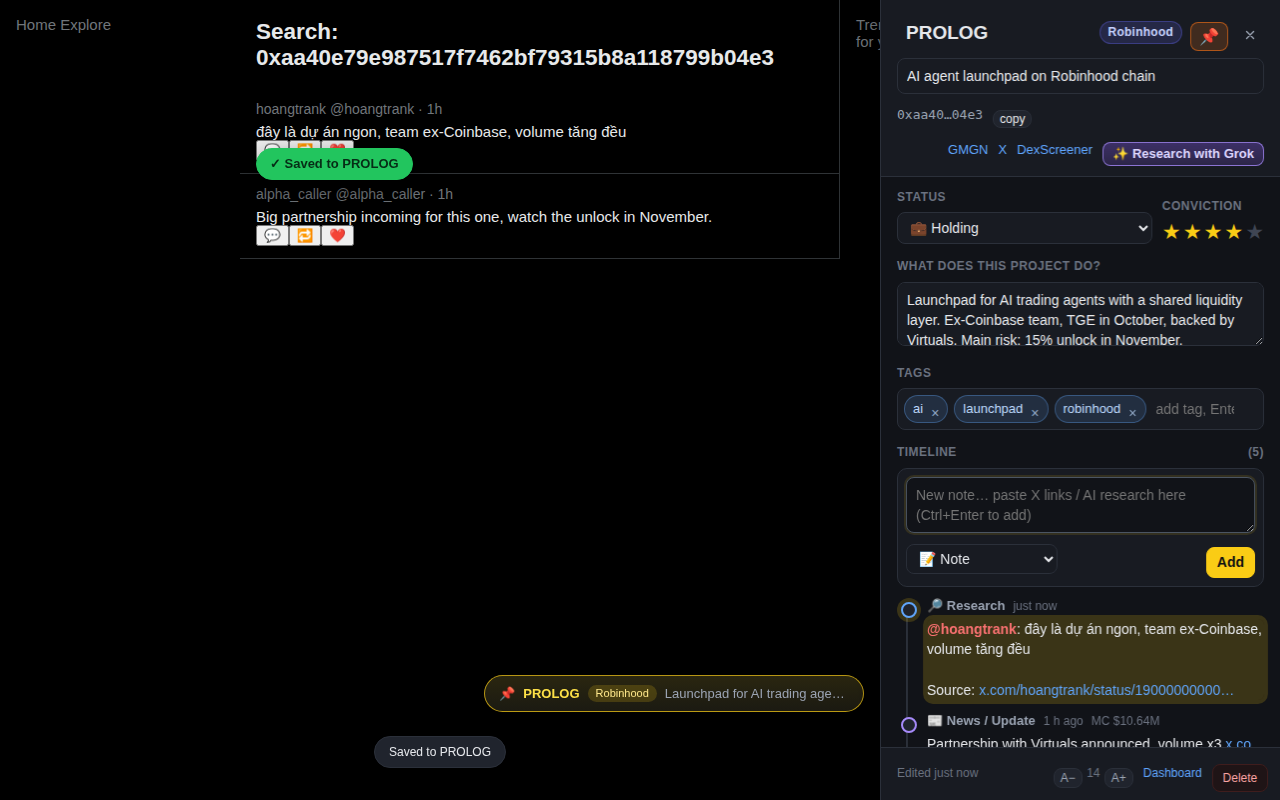
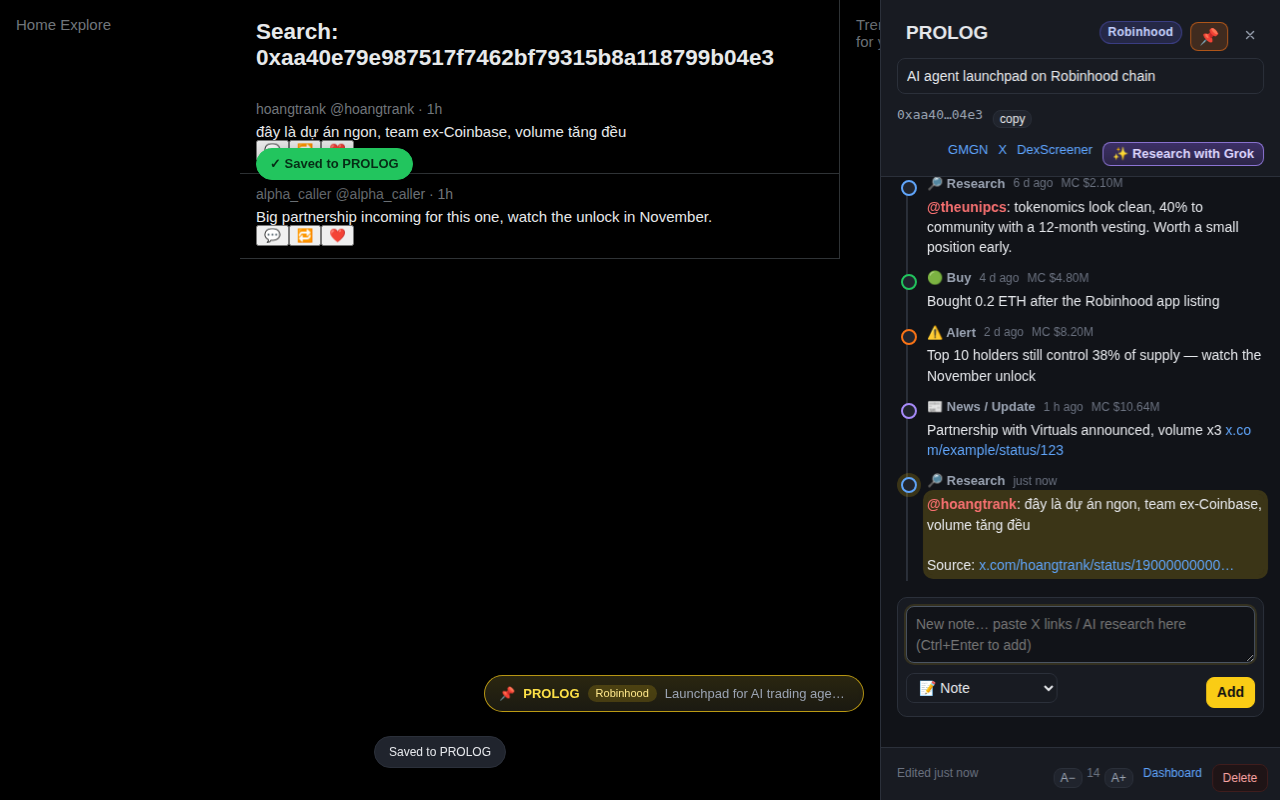
Timeline reads forward in time, and opens at the newest entry (0.10.1)
The timeline listed the newest entry first, so reading a project's story
meant reading bottom to top, and the further back you went the further
down you scrolled. It now runs oldest to newest, the way the events
actually happened, and opening a note scrolls straight to the bottom so
the latest thing is what you see first.

The compose box moves below the list to match. With the newest entry at
the bottom, an input above the list would have put what you type at the
far end of the page from where you typed it; now a new entry appears
directly above the box, and adding one scrolls it into view.

Tests: 202 assertions green, and three new ones — the order, the box
being below the list, and a freshly opened note already sitting at the
bottom. Screenshots regenerated.

Claude-Session: https://claude.ai/code/session_0174wcpqv3PPXBc7TtfHRh6s

Changed region(s): [[0.6875, 0.2188, 1.0, 0.9375]]

diff --git a/src/lib/editor.js b/src/lib/editor.js
@@ -63,7 +63,7 @@
 .ne-compose-row{display:flex;gap:6px;align-items:center}
 .ne-compose-row select{width:auto;flex:0 0 auto;padding:5px 8px}
 .ne-compose-row .ne-hint{flex:1;font-size:calc(var(--ne-fs,14px) - 2px);color:var(--ne-fg3)}
-.ne-entries{list-style:none;margin:10px 0 0;padding:0;position:relative}
+.ne-entries{list-style:none;margin:0 0 10px;padding:0;position:relative}
 .ne-entries::before{content:"";position:absolute;left:9px;top:6px;bottom:6px;width:2px;background:var(--ne-line)}
 .ne-entry{position:relative;padding:0 0 12px 30px}
 .ne-entry::before{content:"";position:absolute;left:4px;top:5px;width:12px;height:12px;border-radius:50%;background:var(--ne-bg3);border:2px solid #4b5563}
@@ -221,6 +221,7 @@
         </div>
         <div class="ne-sec">
           <div class="ne-label">${esc(t('timeline'))} <span class="ne-count"></span></div>
+          <ol class="ne-entries"></ol>
           <div class="ne-compose">
             <textarea class="ne-newtext" placeholder="${esc(t('new_entry_ph'))}"></textarea>
             <div class="ne-compose-row">
@@ -229,7 +230,6 @@
               <button class="primary ne-add" type="button">${esc(t('add'))}</button>
             </div>
           </div>
-          <ol class="ne-entries"></ol>
         </div>
       </div>
       <div class="ne-foot">
@@ -328,11 +328,23 @@
       renderTags();
       renderTimeline();
       renderTimes();
+      scrollToLatest();
       if (opts.allTags) {
         Promise.resolve(opts.allTags()).then(tags => {
           ui.tagList.innerHTML = (tags || []).map(t => `<option value="${esc(t)}">`).join('');
         });
       }
+    }
+
+    // Mở ghi chú là thấy ngay cái mới nhất: nhảy xuống đáy (hoặc tới đúng mốc vừa được thêm từ trang).
+    function scrollToLatest(smooth) {
+      const box = root.querySelector('.ne-body');
+      if (!box) return;
+      const target = highlightId && ui.entries.querySelector('.ne-entry--new');
+      requestAnimationFrame(() => {
+        if (target) target.scrollIntoView({ block: 'center', behavior: smooth ? 'smooth' : 'auto' });
+        else box.scrollTo({ top: box.scrollHeight, behavior: smooth ? 'smooth' : 'auto' });
+      });
     }
 
     function renderStars() {
@@ -353,7 +365,7 @@
     }
 
     function renderTimeline() {
-      const list = [...project.timeline].sort((a, b) => b.ts - a.ts);
+      const list = [...project.timeline].sort((a, b) => a.ts - b.ts); // cũ -> mới, mốc mới nhất ở đáy
       ui.count.textContent = list.length ? `(${list.length})` : '';
       ui.entries.innerHTML = '';
       if (!list.length) {
@@ -433,7 +445,7 @@
       const before = project.timeline.length;
       project = await S.save(project, { removedIds });
       removedIds = [];
-      if (project.timeline.length !== before) renderTimeline(); // có mốc từ nơi khác được gộp vào
+      if (project.timeline.length !== before) { renderTimeline(); scrollToLatest(true); } // có mốc từ nơi khác được gộp vào
       persisted = true;
       renderTimes();
       flashSaved();
@@ -466,7 +478,7 @@
       if (ctx.mc) extra.mc = ctx.mc;
       project.timeline.push(S.newEntry(ui.newType.value, text, extra));
       ui.newText.value = '';
-      renderTimeline(); commit();
+      renderTimeline(); scrollToLatest(true); commit();
     }
 
     // ---- events ----

diff --git a/test/e2e.js b/test/e2e.js
@@ -123,7 +123,18 @@ const drawerOpen = page => page.evaluate(() => !!document.getElementById('noted-
   await panel.selectOption('.ne-newtype', 'buy'); await panel.press('.ne-newtext', 'Control+Enter');
   await panel.waitForTimeout(700);
   const entries = await panel.$$eval('.ne-entry', els => els.map(e => e.dataset.type));
-  assert(entries.length === 2 && entries[0] === 'buy', 'timeline trong panel có 2 mốc, mới nhất ở trên: ' + entries.join(','));
+  assert(entries.length === 2 && entries[1] === 'buy', 'timeline đọc xuôi thời gian, mốc mới nhất ở đáy: ' + entries.join(','));
+  // Ô nhập nằm DƯỚI danh sách: gõ xong là mốc hiện ngay bên trên chỗ đang nhìn.
+  assert(await panel.evaluate(() => {
+    const list = document.querySelector('.ne-entries'), box = document.querySelector('.ne-compose');
+    return !!(list && box && (list.compareDocumentPosition(box) & Node.DOCUMENT_POSITION_FOLLOWING));
+  }), 'ô nhập mốc mới nằm dưới danh sách');
+  // Mở ghi chú là đã cuộn sẵn xuống chỗ mới nhất, không phải tự kéo.
+  const atBottom = await panel.evaluate(() => {
+    const b = document.querySelector('.ne-body');
+    return b.scrollHeight - b.clientHeight < 8 || b.scrollTop + b.clientHeight >= b.scrollHeight - 8;
+  });
+  assert(atBottom, 'mở ra đã ở sẵn đáy timeline');
   assert(await panel.$eval('.ne-entries', el => !!el.querySelector('a[href="https://x.com/example/status/123"]')), 'URL trong mốc được biến thành link');
   await panel.setViewportSize({ width: 380, height: 800 });
   await panel.screenshot({ path: path.join(OUT, '5-side-panel.png') });

diff --git a/docs/huong-dan.md b/docs/huong-dan.md
@@ -78,7 +78,7 @@ Mọi thứ **tự lưu** khi bạn gõ. Không có nút Save, không sợ quên
 
 Bảng ghi chú **đi theo token bạn đang xem**: bấm sang token khác trên gmgn thì bảng tự nhảy sang ghi chú của token đó, không cần đóng mở lại. Bấm nút nổi **📝 Note {SYMBOL}** lần nữa là đóng bảng.
 
-**Timeline** là phần giá trị nhất. Mỗi khi biết thêm điều gì, gõ vào ô "Ghi chú mới", chọn loại (Ghi chú, Research, Tin tức, Mua, Bán, Cảnh báo) rồi bấm Thêm. Mỗi mốc tự ghi lại thời gian và **vốn hoá lúc đó**, nên sau này bạn biết mình mua ở mức nào, tin đó ra lúc dự án còn bao nhiêu.
+**Timeline** là phần giá trị nhất. Nó đọc xuôi theo thời gian: **mốc cũ ở trên, mốc mới nhất ở dưới cùng**, và mở ghi chú ra là đã cuộn sẵn xuống chỗ mới nhất. Mỗi khi biết thêm điều gì, gõ vào ô "Ghi chú mới" ngay dưới danh sách, chọn loại (Ghi chú, Research, Tin tức, Mua, Bán, Cảnh báo) rồi bấm Thêm. Mỗi mốc tự ghi lại thời gian và **vốn hoá lúc đó**, nên sau này bạn biết mình mua ở mức nào, tin đó ra lúc dự án còn bao nhiêu.
 
 Bấm **📌** ở góc trên để ghim những dự án bạn đang bám sát.
 

diff --git a/docs/guide.md b/docs/guide.md
@@ -77,7 +77,7 @@ Everything **saves automatically** as you type. There is no Save button, and not
 
 The note panel **follows the token you are viewing**: click another token on gmgn and the panel jumps to that token's note. You do not need to close and reopen it. Click the floating **📝 Note {SYMBOL}** button again to close the panel.
 
-The **Timeline** is the most valuable part. Each time you learn something new, type it into the "New note…" box, choose a type (Note, Research, News / Update, Buy, Sell, Alert), then click Add. Each entry records the time and the **market cap at that moment**. So later you know at what level you bought, and how big the project was when that news came out.
+The **Timeline** is the most valuable part. It reads forward in time: **oldest at the top, newest at the bottom**, and opening a note scrolls straight to the newest entry. Each time you learn something new, type it into the "New note…" box under the list, choose a type (Note, Research, News / Update, Buy, Sell, Alert), then click Add. Each entry records the time and the **market cap at that moment**. So later you know at what level you bought, and how big the project was when that news came out.
 
 Click **📌** in the top corner to pin the projects you are following closely.
 
